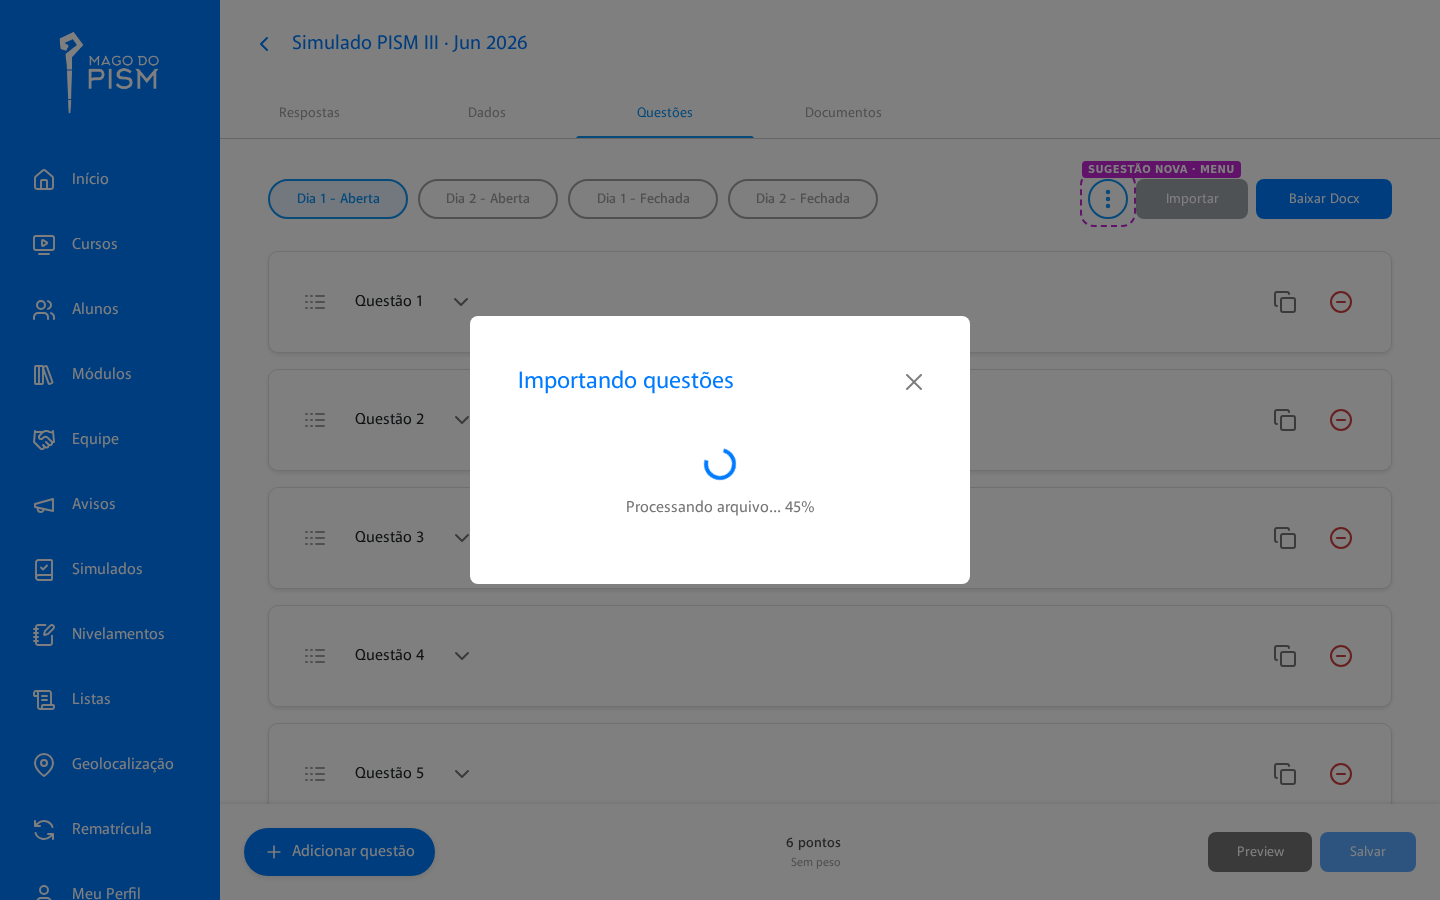
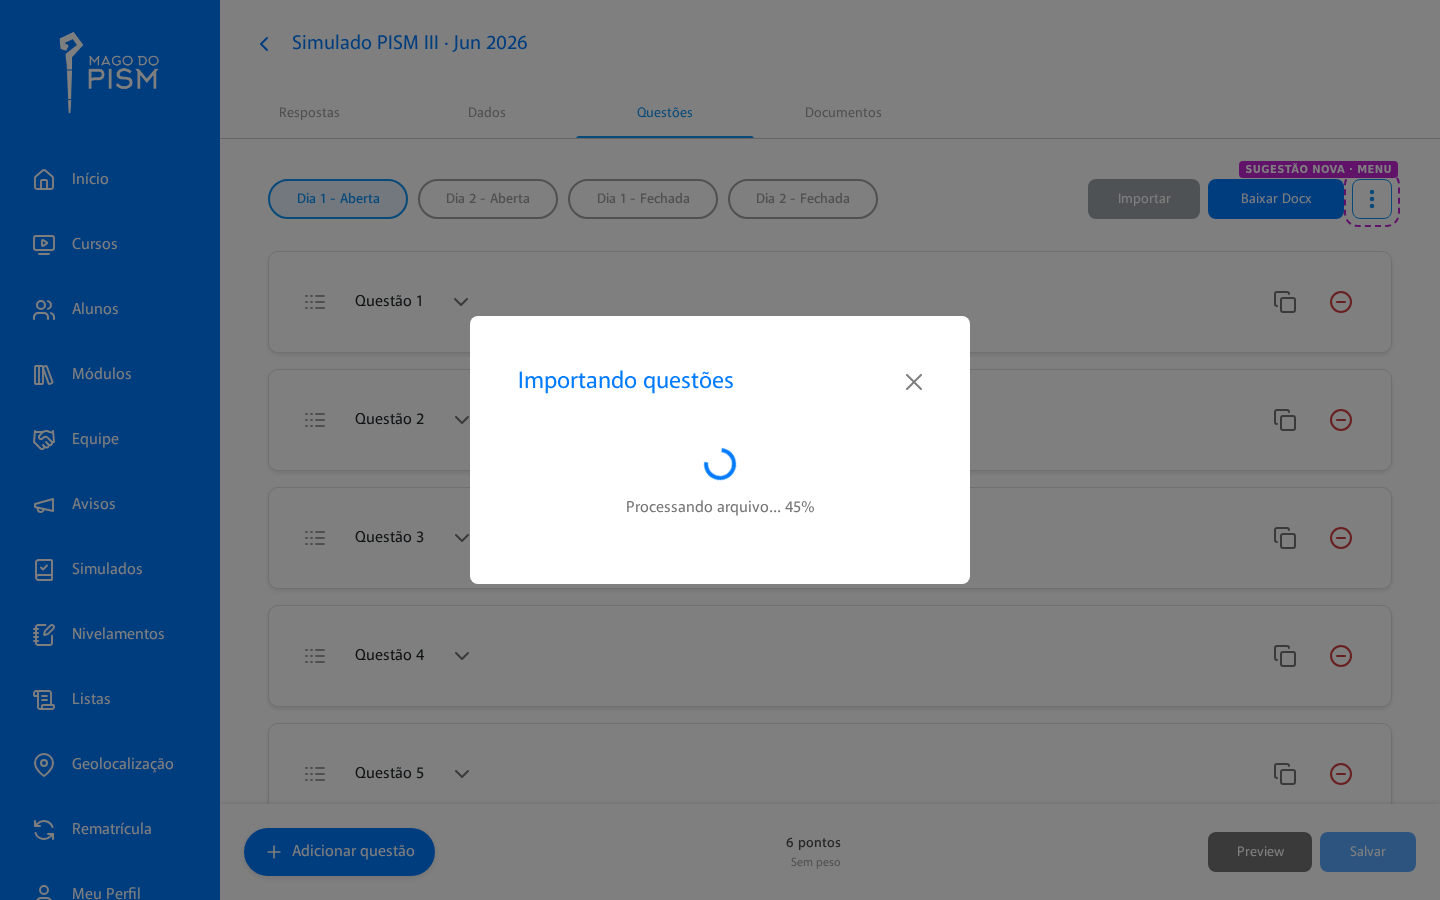
design: menu de 3 pontos à direita da fileira, botão retangular com borda
Card Trello 489.

Changed region(s): [[0.75, 0.1556, 0.9688, 0.2489]]

diff --git a/admin/simulado-extracao-pdf-menu.html b/admin/simulado-extracao-pdf-menu.html
@@ -55,7 +55,7 @@
               <div class="flex-grow-1 w-100">
                 <div class="aq-head-row">
                   <div class="cat-list"><button type="button" class="cat-btn is-on" style="min-width:140px">Dia 1 - Aberta</button><button type="button" class="cat-btn" style="min-width:140px">Dia 2 - Aberta</button><button type="button" class="cat-btn" style="min-width:150px">Dia 1 - Fechada</button><button type="button" class="cat-btn" style="min-width:150px">Dia 2 - Fechada</button></div>
-                  <div class="aq-actions"><div class="mais-wrap ds-sugestao"><span class="ds-tag">Sugestão nova · menu</span><button type="button" class="mais-btn is-open" aria-label="Mais ações" aria-haspopup="menu" aria-expanded="true"><svg width="24" height="24" viewBox="0 0 24 24" fill="none" stroke="#0E93F2" stroke-width="2.5" stroke-linecap="round"><circle cx="12" cy="5" r="1"/><circle cx="12" cy="12" r="1"/><circle cx="12" cy="19" r="1"/></svg></button><div class="mais-menu" role="menu"><button type="button" role="menuitem">Expandir todas</button><button type="button" role="menuitem">Copiar questões</button></div></div><div><button type="button" class="btn btn-secondary mdp-btn minor" style="min-width:112px"><span>Importar</span></button></div><div><button type="button" class="btn btn-primary mdp-btn minor" style="min-width:136px"><span>Baixar Docx</span></button></div></div>
+                  <div class="aq-actions"><div><button type="button" class="btn btn-secondary mdp-btn minor" style="min-width:112px"><span>Importar</span></button></div><div><button type="button" class="btn btn-primary mdp-btn minor" style="min-width:136px"><span>Baixar Docx</span></button></div><div class="mais-wrap ds-sugestao"><span class="ds-tag">Sugestão nova · menu</span><button type="button" class="mais-btn is-open" aria-label="Mais ações" aria-haspopup="menu" aria-expanded="true"><svg width="24" height="24" viewBox="0 0 24 24" fill="none" stroke="#0E93F2" stroke-width="2.5" stroke-linecap="round"><circle cx="12" cy="5" r="1"/><circle cx="12" cy="12" r="1"/><circle cx="12" cy="19" r="1"/></svg></button><div class="mais-menu" role="menu"><button type="button" role="menuitem">Expandir todas</button><button type="button" role="menuitem">Copiar questões</button></div></div></div>
                 </div>
               </div>
             </div>

diff --git a/admin/simulado-extracao-pdf-importando.html b/admin/simulado-extracao-pdf-importando.html
@@ -55,7 +55,7 @@
               <div class="flex-grow-1 w-100">
                 <div class="aq-head-row">
                   <div class="cat-list"><button type="button" class="cat-btn is-on" style="min-width:140px">Dia 1 - Aberta</button><button type="button" class="cat-btn" style="min-width:140px">Dia 2 - Aberta</button><button type="button" class="cat-btn" style="min-width:150px">Dia 1 - Fechada</button><button type="button" class="cat-btn" style="min-width:150px">Dia 2 - Fechada</button></div>
-                  <div class="aq-actions"><div class="mais-wrap ds-sugestao"><span class="ds-tag">Sugestão nova · menu</span><button type="button" class="mais-btn" aria-label="Mais ações" aria-haspopup="menu" aria-expanded="false"><svg width="24" height="24" viewBox="0 0 24 24" fill="none" stroke="#0E93F2" stroke-width="2.5" stroke-linecap="round"><circle cx="12" cy="5" r="1"/><circle cx="12" cy="12" r="1"/><circle cx="12" cy="19" r="1"/></svg></button></div><div><button type="button" class="btn btn-secondary mdp-btn minor" style="min-width:112px" disabled><span>Importar</span></button></div><div><button type="button" class="btn btn-primary mdp-btn minor" style="min-width:136px"><span>Baixar Docx</span></button></div></div>
+                  <div class="aq-actions"><div><button type="button" class="btn btn-secondary mdp-btn minor" style="min-width:112px" disabled><span>Importar</span></button></div><div><button type="button" class="btn btn-primary mdp-btn minor" style="min-width:136px"><span>Baixar Docx</span></button></div><div class="mais-wrap ds-sugestao"><span class="ds-tag">Sugestão nova · menu</span><button type="button" class="mais-btn" aria-label="Mais ações" aria-haspopup="menu" aria-expanded="false"><svg width="24" height="24" viewBox="0 0 24 24" fill="none" stroke="#0E93F2" stroke-width="2.5" stroke-linecap="round"><circle cx="12" cy="5" r="1"/><circle cx="12" cy="12" r="1"/><circle cx="12" cy="19" r="1"/></svg></button></div></div>
                 </div>
               </div>
             </div>

diff --git a/admin/simulado-extracao-pdf-erro.html b/admin/simulado-extracao-pdf-erro.html
@@ -55,7 +55,7 @@
               <div class="flex-grow-1 w-100">
                 <div class="aq-head-row">
                   <div class="cat-list"><button type="button" class="cat-btn is-on" style="min-width:140px">Dia 1 - Aberta</button><button type="button" class="cat-btn" style="min-width:140px">Dia 2 - Aberta</button><button type="button" class="cat-btn" style="min-width:150px">Dia 1 - Fechada</button><button type="button" class="cat-btn" style="min-width:150px">Dia 2 - Fechada</button></div>
-                  <div class="aq-actions"><div class="mais-wrap ds-sugestao"><span class="ds-tag">Sugestão nova · menu</span><button type="button" class="mais-btn" aria-label="Mais ações" aria-haspopup="menu" aria-expanded="false"><svg width="24" height="24" viewBox="0 0 24 24" fill="none" stroke="#0E93F2" stroke-width="2.5" stroke-linecap="round"><circle cx="12" cy="5" r="1"/><circle cx="12" cy="12" r="1"/><circle cx="12" cy="19" r="1"/></svg></button></div><div><button type="button" class="btn btn-secondary mdp-btn minor" style="min-width:112px"><span>Importar</span></button></div><div><button type="button" class="btn btn-primary mdp-btn minor" style="min-width:136px"><span>Baixar Docx</span></button></div></div>
+                  <div class="aq-actions"><div><button type="button" class="btn btn-secondary mdp-btn minor" style="min-width:112px"><span>Importar</span></button></div><div><button type="button" class="btn btn-primary mdp-btn minor" style="min-width:136px"><span>Baixar Docx</span></button></div><div class="mais-wrap ds-sugestao"><span class="ds-tag">Sugestão nova · menu</span><button type="button" class="mais-btn" aria-label="Mais ações" aria-haspopup="menu" aria-expanded="false"><svg width="24" height="24" viewBox="0 0 24 24" fill="none" stroke="#0E93F2" stroke-width="2.5" stroke-linecap="round"><circle cx="12" cy="5" r="1"/><circle cx="12" cy="12" r="1"/><circle cx="12" cy="19" r="1"/></svg></button></div></div>
                 </div>
               </div>
             </div>

diff --git a/admin/simulado-extracao-pdf-importadas.html b/admin/simulado-extracao-pdf-importadas.html
@@ -55,7 +55,7 @@
               <div class="flex-grow-1 w-100">
                 <div class="aq-head-row">
                   <div class="cat-list"><button type="button" class="cat-btn is-on" style="min-width:140px">Dia 1 - Aberta</button><button type="button" class="cat-btn" style="min-width:140px">Dia 2 - Aberta</button><button type="button" class="cat-btn" style="min-width:150px">Dia 1 - Fechada</button><button type="button" class="cat-btn" style="min-width:150px">Dia 2 - Fechada</button></div>
-                  <div class="aq-actions"><div class="mais-wrap ds-sugestao"><span class="ds-tag">Sugestão nova · menu</span><button type="button" class="mais-btn" aria-label="Mais ações" aria-haspopup="menu" aria-expanded="false"><svg width="24" height="24" viewBox="0 0 24 24" fill="none" stroke="#0E93F2" stroke-width="2.5" stroke-linecap="round"><circle cx="12" cy="5" r="1"/><circle cx="12" cy="12" r="1"/><circle cx="12" cy="19" r="1"/></svg></button></div><div><button type="button" class="btn btn-secondary mdp-btn minor" style="min-width:112px"><span>Importar</span></button></div><div><button type="button" class="btn btn-primary mdp-btn minor" style="min-width:136px"><span>Baixar Docx</span></button></div></div>
+                  <div class="aq-actions"><div><button type="button" class="btn btn-secondary mdp-btn minor" style="min-width:112px"><span>Importar</span></button></div><div><button type="button" class="btn btn-primary mdp-btn minor" style="min-width:136px"><span>Baixar Docx</span></button></div><div class="mais-wrap ds-sugestao"><span class="ds-tag">Sugestão nova · menu</span><button type="button" class="mais-btn" aria-label="Mais ações" aria-haspopup="menu" aria-expanded="false"><svg width="24" height="24" viewBox="0 0 24 24" fill="none" stroke="#0E93F2" stroke-width="2.5" stroke-linecap="round"><circle cx="12" cy="5" r="1"/><circle cx="12" cy="12" r="1"/><circle cx="12" cy="19" r="1"/></svg></button></div></div>
                 </div>
               </div>
             </div>

diff --git a/admin/simulado-extracao-pdf-modal-arquivo.html b/admin/simulado-extracao-pdf-modal-arquivo.html
@@ -55,7 +55,7 @@
               <div class="flex-grow-1 w-100">
                 <div class="aq-head-row">
                   <div class="cat-list"><button type="button" class="cat-btn is-on" style="min-width:140px">Dia 1 - Aberta</button><button type="button" class="cat-btn" style="min-width:140px">Dia 2 - Aberta</button><button type="button" class="cat-btn" style="min-width:150px">Dia 1 - Fechada</button><button type="button" class="cat-btn" style="min-width:150px">Dia 2 - Fechada</button></div>
-                  <div class="aq-actions"><div class="mais-wrap ds-sugestao"><span class="ds-tag">Sugestão nova · menu</span><button type="button" class="mais-btn" aria-label="Mais ações" aria-haspopup="menu" aria-expanded="false"><svg width="24" height="24" viewBox="0 0 24 24" fill="none" stroke="#0E93F2" stroke-width="2.5" stroke-linecap="round"><circle cx="12" cy="5" r="1"/><circle cx="12" cy="12" r="1"/><circle cx="12" cy="19" r="1"/></svg></button></div><div><button type="button" class="btn btn-secondary mdp-btn minor" style="min-width:112px"><span>Importar</span></button></div><div><button type="button" class="btn btn-primary mdp-btn minor" style="min-width:136px"><span>Baixar Docx</span></button></div></div>
+                  <div class="aq-actions"><div><button type="button" class="btn btn-secondary mdp-btn minor" style="min-width:112px"><span>Importar</span></button></div><div><button type="button" class="btn btn-primary mdp-btn minor" style="min-width:136px"><span>Baixar Docx</span></button></div><div class="mais-wrap ds-sugestao"><span class="ds-tag">Sugestão nova · menu</span><button type="button" class="mais-btn" aria-label="Mais ações" aria-haspopup="menu" aria-expanded="false"><svg width="24" height="24" viewBox="0 0 24 24" fill="none" stroke="#0E93F2" stroke-width="2.5" stroke-linecap="round"><circle cx="12" cy="5" r="1"/><circle cx="12" cy="12" r="1"/><circle cx="12" cy="19" r="1"/></svg></button></div></div>
                 </div>
               </div>
             </div>

diff --git a/admin/simulado-extracao-pdf-modal.html b/admin/simulado-extracao-pdf-modal.html
@@ -55,7 +55,7 @@
               <div class="flex-grow-1 w-100">
                 <div class="aq-head-row">
                   <div class="cat-list"><button type="button" class="cat-btn is-on" style="min-width:140px">Dia 1 - Aberta</button><button type="button" class="cat-btn" style="min-width:140px">Dia 2 - Aberta</button><button type="button" class="cat-btn" style="min-width:150px">Dia 1 - Fechada</button><button type="button" class="cat-btn" style="min-width:150px">Dia 2 - Fechada</button></div>
-                  <div class="aq-actions"><div class="mais-wrap ds-sugestao"><span class="ds-tag">Sugestão nova · menu</span><button type="button" class="mais-btn" aria-label="Mais ações" aria-haspopup="menu" aria-expanded="false"><svg width="24" height="24" viewBox="0 0 24 24" fill="none" stroke="#0E93F2" stroke-width="2.5" stroke-linecap="round"><circle cx="12" cy="5" r="1"/><circle cx="12" cy="12" r="1"/><circle cx="12" cy="19" r="1"/></svg></button></div><div><button type="button" class="btn btn-secondary mdp-btn minor" style="min-width:112px"><span>Importar</span></button></div><div><button type="button" class="btn btn-primary mdp-btn minor" style="min-width:136px"><span>Baixar Docx</span></button></div></div>
+                  <div class="aq-actions"><div><button type="button" class="btn btn-secondary mdp-btn minor" style="min-width:112px"><span>Importar</span></button></div><div><button type="button" class="btn btn-primary mdp-btn minor" style="min-width:136px"><span>Baixar Docx</span></button></div><div class="mais-wrap ds-sugestao"><span class="ds-tag">Sugestão nova · menu</span><button type="button" class="mais-btn" aria-label="Mais ações" aria-haspopup="menu" aria-expanded="false"><svg width="24" height="24" viewBox="0 0 24 24" fill="none" stroke="#0E93F2" stroke-width="2.5" stroke-linecap="round"><circle cx="12" cy="5" r="1"/><circle cx="12" cy="12" r="1"/><circle cx="12" cy="19" r="1"/></svg></button></div></div>
                 </div>
               </div>
             </div>

diff --git a/admin/simulado-extracao-pdf-questoes.html b/admin/simulado-extracao-pdf-questoes.html
@@ -55,7 +55,7 @@
               <div class="flex-grow-1 w-100">
                 <div class="aq-head-row">
                   <div class="cat-list"><button type="button" class="cat-btn is-on" style="min-width:140px">Dia 1 - Aberta</button><button type="button" class="cat-btn" style="min-width:140px">Dia 2 - Aberta</button><button type="button" class="cat-btn" style="min-width:150px">Dia 1 - Fechada</button><button type="button" class="cat-btn" style="min-width:150px">Dia 2 - Fechada</button></div>
-                  <div class="aq-actions"><div class="mais-wrap ds-sugestao"><span class="ds-tag">Sugestão nova · menu</span><button type="button" class="mais-btn" aria-label="Mais ações" aria-haspopup="menu" aria-expanded="false"><svg width="24" height="24" viewBox="0 0 24 24" fill="none" stroke="#0E93F2" stroke-width="2.5" stroke-linecap="round"><circle cx="12" cy="5" r="1"/><circle cx="12" cy="12" r="1"/><circle cx="12" cy="19" r="1"/></svg></button></div><div><button type="button" class="btn btn-secondary mdp-btn minor" style="min-width:112px"><span>Importar</span></button></div><div><button type="button" class="btn btn-primary mdp-btn minor" style="min-width:136px"><span>Baixar Docx</span></button></div></div>
+                  <div class="aq-actions"><div><button type="button" class="btn btn-secondary mdp-btn minor" style="min-width:112px"><span>Importar</span></button></div><div><button type="button" class="btn btn-primary mdp-btn minor" style="min-width:136px"><span>Baixar Docx</span></button></div><div class="mais-wrap ds-sugestao"><span class="ds-tag">Sugestão nova · menu</span><button type="button" class="mais-btn" aria-label="Mais ações" aria-haspopup="menu" aria-expanded="false"><svg width="24" height="24" viewBox="0 0 24 24" fill="none" stroke="#0E93F2" stroke-width="2.5" stroke-linecap="round"><circle cx="12" cy="5" r="1"/><circle cx="12" cy="12" r="1"/><circle cx="12" cy="19" r="1"/></svg></button></div></div>
                 </div>
               </div>
             </div>

diff --git a/admin/simulado-extracao-pdf-sem-questoes.html b/admin/simulado-extracao-pdf-sem-questoes.html
@@ -55,7 +55,7 @@
               <div class="flex-grow-1 w-100">
                 <div class="aq-head-row">
                   <div class="cat-list"><button type="button" class="cat-btn is-on" style="min-width:140px">Dia 1 - Aberta</button><button type="button" class="cat-btn" style="min-width:140px">Dia 2 - Aberta</button><button type="button" class="cat-btn" style="min-width:150px">Dia 1 - Fechada</button><button type="button" class="cat-btn" style="min-width:150px">Dia 2 - Fechada</button></div>
-                  <div class="aq-actions"><div class="mais-wrap ds-sugestao"><span class="ds-tag">Sugestão nova · menu</span><button type="button" class="mais-btn" aria-label="Mais ações" aria-haspopup="menu" aria-expanded="false"><svg width="24" height="24" viewBox="0 0 24 24" fill="none" stroke="#0E93F2" stroke-width="2.5" stroke-linecap="round"><circle cx="12" cy="5" r="1"/><circle cx="12" cy="12" r="1"/><circle cx="12" cy="19" r="1"/></svg></button></div><div><button type="button" class="btn btn-secondary mdp-btn minor" style="min-width:112px"><span>Importar</span></button></div><div><button type="button" class="btn btn-primary mdp-btn minor" style="min-width:136px"><span>Baixar Docx</span></button></div></div>
+                  <div class="aq-actions"><div><button type="button" class="btn btn-secondary mdp-btn minor" style="min-width:112px"><span>Importar</span></button></div><div><button type="button" class="btn btn-primary mdp-btn minor" style="min-width:136px"><span>Baixar Docx</span></button></div><div class="mais-wrap ds-sugestao"><span class="ds-tag">Sugestão nova · menu</span><button type="button" class="mais-btn" aria-label="Mais ações" aria-haspopup="menu" aria-expanded="false"><svg width="24" height="24" viewBox="0 0 24 24" fill="none" stroke="#0E93F2" stroke-width="2.5" stroke-linecap="round"><circle cx="12" cy="5" r="1"/><circle cx="12" cy="12" r="1"/><circle cx="12" cy="19" r="1"/></svg></button></div></div>
                 </div>
               </div>
             </div>

diff --git a/styles/extracao-pdf.css b/styles/extracao-pdf.css
@@ -103,9 +103,9 @@
 
 /* Sugestão nova: menu de 3 pontos com Expandir todas e Copiar questões */
 .mais-wrap { position: relative; display: flex; align-items: center; }
-.mais-btn { width: 40px; height: 40px; border-radius: 20px; background: #fff; border: 2px solid #0E93F2; display: flex; align-items: center; justify-content: center; padding: 0; }
+.mais-btn { width: 40px; height: 40px; border-radius: 8px; background: #fff; border: 1px solid #0E93F2; display: flex; align-items: center; justify-content: center; padding: 0; }
 .mais-btn.is-open { background: #E6F0FF; }
-.mais-menu { position: absolute; top: 48px; left: 0; z-index: 20; min-width: 184px; background: #fff; border: 1px solid #E0E0E0; border-radius: 8px; box-shadow: 0 4px 12px rgba(0, 0, 0, .15); padding: 6px 0; display: flex; flex-direction: column; }
+.mais-menu { position: absolute; top: 48px; right: 0; z-index: 20; min-width: 184px; background: #fff; border: 1px solid #E0E0E0; border-radius: 8px; box-shadow: 0 4px 12px rgba(0, 0, 0, .15); padding: 6px 0; display: flex; flex-direction: column; }
 .mais-menu button { background: none; border: none; text-align: left; padding: 10px 16px; font-size: 14px; color: #212529; font-family: inherit; }
 .mais-menu button:hover { background: #F1F5F9; }
-.mais-wrap > .ds-tag { right: auto; left: -6px; }
+.mais-wrap > .ds-tag { right: -6px; left: auto; }
